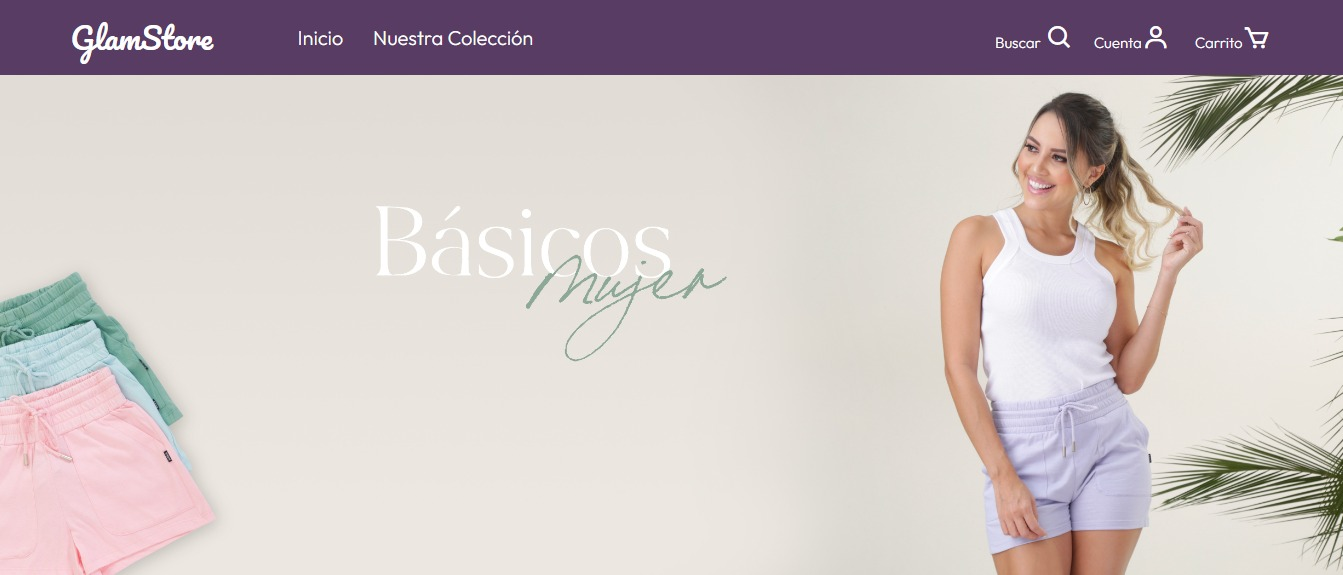
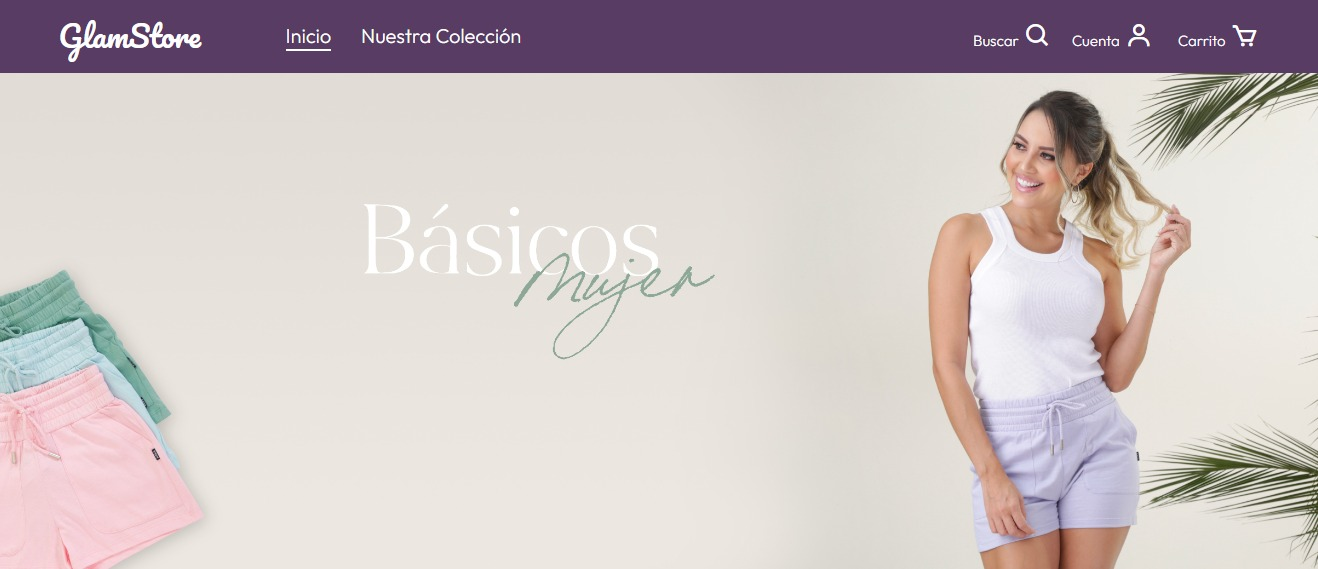
UPDATE: images for the readme

diff --git a/styles/mobile.css b/styles/mobile.css
@@ -41,12 +41,9 @@ html {
     font-family: "Pacifico", cursive;
 }
 
-.bx {
-    font-size: 2.8rem;
-}
-
-.bx-search {
+.bx, .bx-search, .bx-user, .bx-cart {
     margin-left: 5px;
+    font-size: 2.8rem;
 }
 
 .header__enlaces span {
@@ -59,7 +56,8 @@ html {
     transition: border-bottom 0.2s ease;
 }
 
-.header__link::after {
+.header__link::after, 
+.header__link-active::after {
     content: ""; 
     position: absolute;
     left: 0;
@@ -70,6 +68,9 @@ html {
     transform: scaleX(0);
     transform-origin: center; 
     transition: transform 0.4s ease; /
+}
+.header__link-active::after {
+    transform: scaleX(1);
 }
 
 .header__link:hover::after {
@@ -235,7 +236,7 @@ html {
 
 .line {
     width: 15%;
-    border-top: 1px solid #4b4848;
+    border-top: 1px solid #c0bebe;
 }
 
 .line-text {
@@ -296,6 +297,39 @@ html {
     color: #fff;
 }
 
+.main__icons {
+    padding: 25px 0 85px;
+    background-color: #f5f1f1;
+}
+
+.main__icons h2 {
+    text-align: center;
+    font-size: 3rem;
+    padding: 25px 0 50px;
+    font-weight: lighter;
+}
+
+.main__icon-box {
+    display: flex;
+    flex-wrap: wrap;
+    justify-content: center;
+    gap: 15px;
+}
+
+.icon__box {
+    width: 100%;
+    max-width: 280px;
+    padding: 40px;
+    text-align: center;
+    font-size: 2rem;
+    border-radius: 8px;
+    box-shadow: 0 1px 5px rgba(0, 0, 0, 0.3);
+}
+
+.bx-gift, .bx-donate-heart, .bxs-plane-alt, .bx-time {
+    font-size: 4rem;
+}
+
 /* Modal carrito  */
 #search-icon,
 .search__icon-delete,
@@ -314,7 +348,7 @@ html {
     right: 0;
     left: 0;
     top: 0;
-    opacity: 0; /* lo oculta pero no pierde su espacio */
+    opacity: 0; /* oculta pero no pierde su espacio */
     visibility: hidden; /* lo saca de su espacio  */
     transition: all 500ms ease;
 }
@@ -398,12 +432,12 @@ html {
     opacity: 0.5;
 }
 
-.cart__button-total {
+.cart-footer #cart-total, .cart__button-total {
     color: #000;
-    font-weight: bold;
 }
-.cart-footer #cart-total {
-    color: #000;
+
+.cart__button-total {
+    font-weight: bold;
 }
 
 .cart__button:hover {
@@ -480,7 +514,6 @@ html {
 
 /* ------------------------------------ FOOTER --------------------- */
 .footer {
-    background-color: #d3cece;
     background-color: #252424;
     color: #fff;
     padding: 20px 0 0;
@@ -515,36 +548,4 @@ html {
 .footer__info-text span {
     font-family: "Pacifico", cursive;
     font-size: 1.7rem;
-}
-
-.main__icons {
-    padding: 50px 0 80px;
-}
-
-.main__icons h2 {
-    text-align: center;
-    font-size: 2.5rem;
-    padding: 25px;
-    font-weight: lighter;
-}
-
-.main__icon-box {
-    display: flex;
-    flex-wrap: wrap;
-    justify-content: center;
-    gap: 15px;
-}
-
-.icon__box {
-    width: 100%;
-    max-width: 280px;
-    padding: 40px;
-    text-align: center;
-    font-size: 2rem;
-    border-radius: 8px;
-    box-shadow: 0 1px 5px rgba(0, 0, 0, 0.3);
-}
-
-.bx-gift, .bx-donate-heart, .bxs-plane-alt, .bx-time {
-    font-size: 4rem;
 }

diff --git a/index.html b/index.html
@@ -51,11 +51,12 @@
 
             <span class="header__logo logo-mobile">GlamStore</span>
             <!-- Modal menu oculto -->
+
             <div class="modal">
                 <i class="bx bx-x modal__icon-delete"></i>
                 <ul class="header__enlaces">
                     <span class="header__logo logo-mobil">GlamStore</span>
-                    <li><a class="header__link" href="">Inicio</a></li>
+                    <li><a class="header__link header__link-active" href="">Inicio</a></li>
                     <li>
                         <a class="header__link" href="#colection">Nuestra Colección</a>
                     </li>
